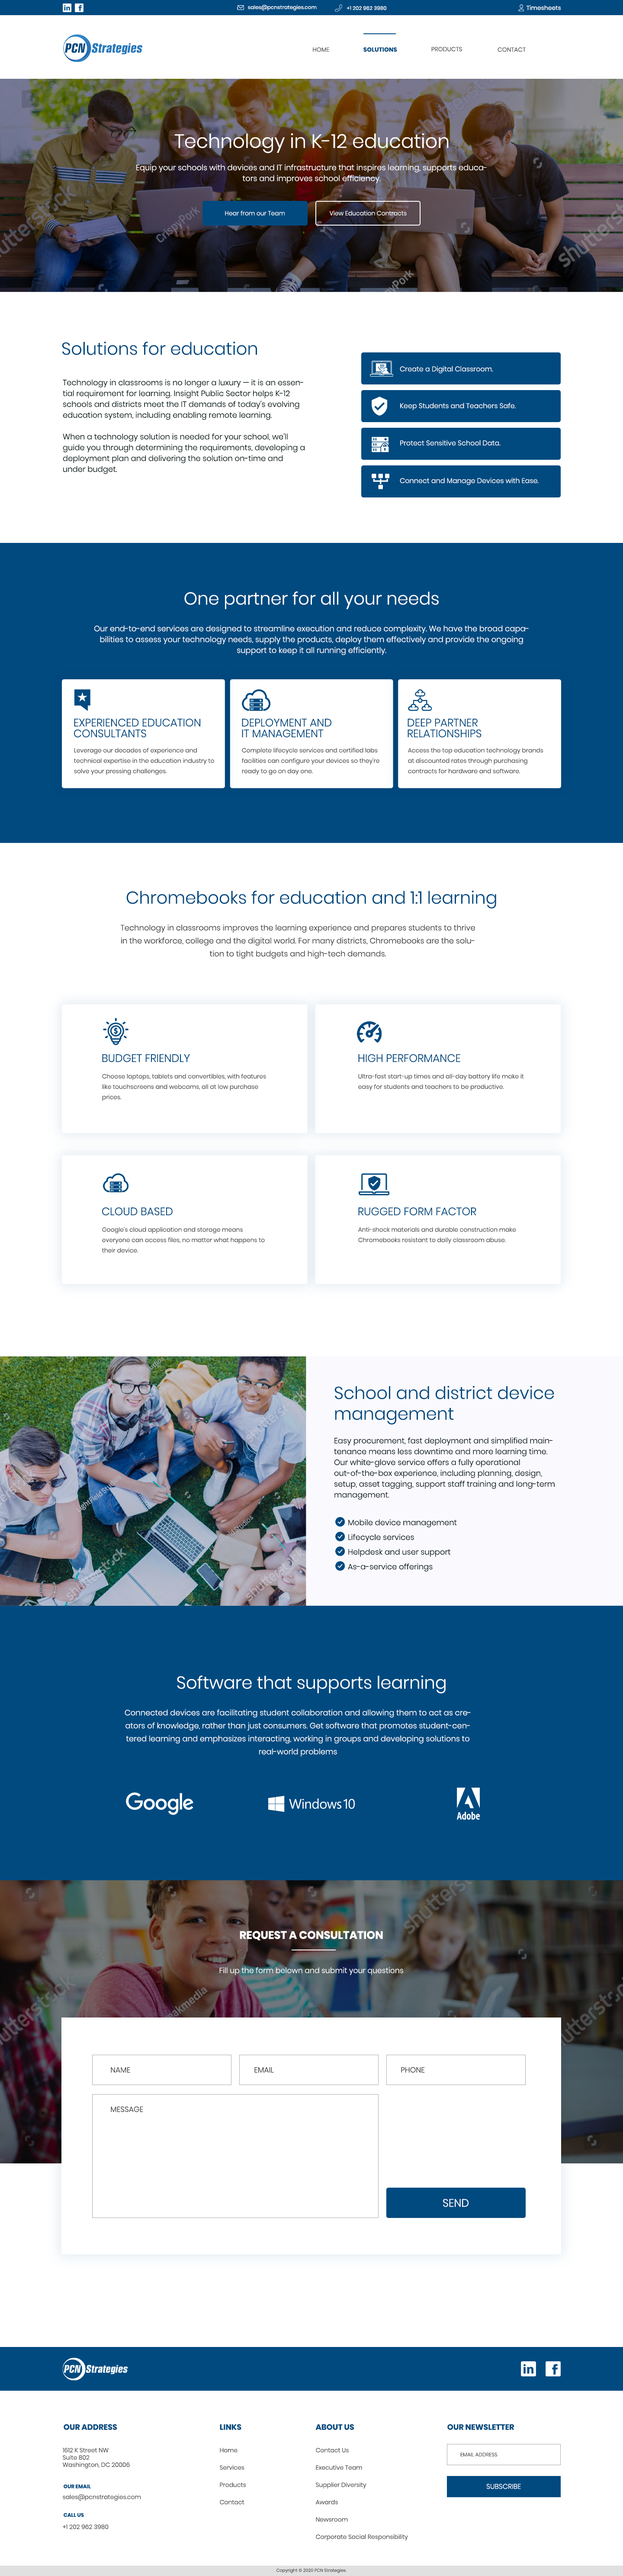
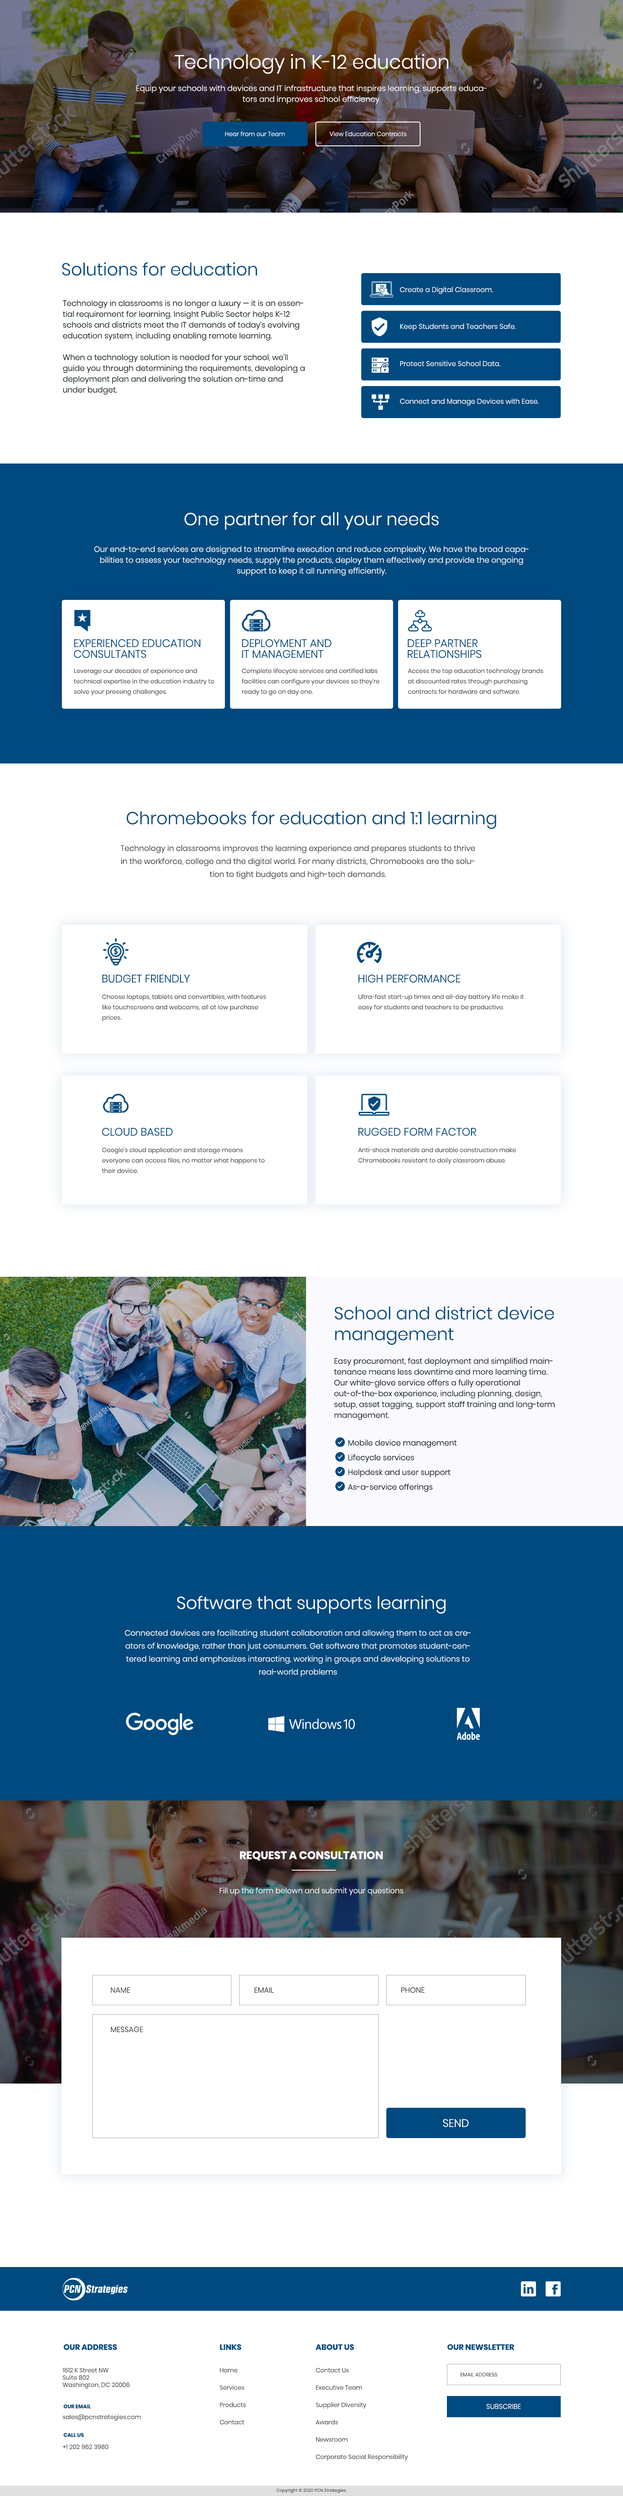
update

diff --git a/HigherEd.html b/HigherEd.html
@@ -33,14 +33,14 @@
                 <a href=""><img src="./img/logo.png" alt="pcnstrategies" id="Logo"></a>
             </div>
             <div class="nav-links">
-                    <li class="active"><a href="">HOME</a></li>
-                    <li><a href="">SOLUTIONS</a></li>
+                    <li><a href="">HOME</a></li>
+                    <li class="active"><a href="">SOLUTIONS</a></li>
                     <li><a href="">PRODUCTS</a></li>
                     <li><a href="">CONTACT</a></li>
             </div>
         </div>    
     </div>
-<img src="./img/index.png" height="auto" width="100%"alt="">
+<img src="./img/index_Pages_HigherEducationSolutions_.png" height="auto" width="100%"alt="">
 
 
 <script>

diff --git a/K12.html b/K12.html
@@ -33,14 +33,14 @@
                 <a href=""><img src="./img/logo.png" alt="pcnstrategies" id="Logo"></a>
             </div>
             <div class="nav-links">
-                    <li class="active"><a href="">HOME</a></li>
-                    <li><a href="">SOLUTIONS</a></li>
+                    <li><a href="">HOME</a></li>
+                    <li class="active"><a href="">SOLUTIONS</a></li>
                     <li><a href="">PRODUCTS</a></li>
                     <li><a href="">CONTACT</a></li>
             </div>
         </div>    
     </div>
-<img src="./img/index.png" height="auto" width="100%"alt="">
+<img src="./img/index_Pages_K12Solutions_.png" height="auto" width="100%"alt="">
 
 
 <script>
